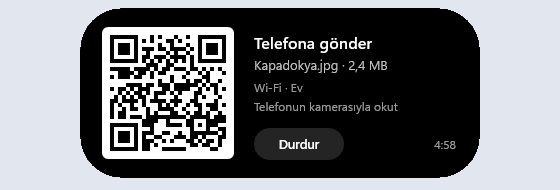
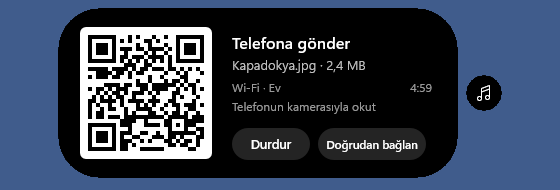
Release 0.4.0
Version numbers now follow 0.MINOR.PATCH. The README covers the layouts, the firewall check, the hotspot and starting with Windows, with new pictures of the send beside music and the Düzen page.

diff --git a/README.md b/README.md
@@ -13,11 +13,11 @@ A live island for Windows 11. Islora shows what your PC is doing in a small blac
   </tr>
   <tr>
     <td><img src="assets/screenshots/drop.png" alt="Files dragged to the island, over the three places they can go"></td>
-    <td><img src="assets/screenshots/phone.png" alt="A QR code for a phone to download a file over the local network"></td>
+    <td><img src="assets/screenshots/phone.png" alt="A QR code for a phone to download a file, with the music that plays meanwhile in a bubble beside it"></td>
   </tr>
   <tr>
     <td><img src="assets/screenshots/glass.png" alt="The glass material, showing the colours behind it"></td>
-    <td><img src="assets/screenshots/settings.png" alt="The settings window on its appearance page, with the progress style for sending"></td>
+    <td><img src="assets/screenshots/settings.png" alt="The settings window on its layout page, choosing how a send shares the island with music"></td>
   </tr>
 </table>
 
@@ -35,10 +35,10 @@ The file is not signed, so SmartScreen may warn you the first time. Choose **Mor
 - **Music and video:** cover, title, artist, progress and playback buttons for any player that reports to Windows, such as Spotify, or YouTube and YouTube Music in a browser. You can seek, shuffle and repeat when the player allows it. Where a player has no previous or next, as for a single video, the buttons beside play jump 10 seconds back and 30 forward. Songs are told from videos by what comes with them, such as an album, a square cover, the controls on offer and the title, not by which app or site plays them, so a new song is announced and the next video is not.
 - **Timers:** Islora's own countdown, Windows Focus sessions in both directions, and running timers from the Clock app. Clock timers are read-only, as Windows offers no public way to create them.
 - **Calendar:** events from a private iCal address, as a bubble 30 minutes before they start, in the pill 5 minutes before, and as an alert when they begin.
-- **Files:** drag files to the top of the screen and three places open. **Raf** keeps them at hand to drag somewhere else later. **Telefona gönder** shows a code that a phone camera scans to download them over your network, with no app or account on the phone. When the phone is on another network, **Doğrudan bağlan** has the computer open a small Wi-Fi network of its own: the phone joins it with one code and downloads with a second. **Dönüştür** saves pictures as JPG or PNG, or makes them smaller, next to the original.
+- **Files:** drag files to the top of the screen and three places open. **Raf** keeps them at hand to drag somewhere else later. **Telefona gönder** shows a code that a phone camera scans to download them over your network, with no app or account on the phone. When the phone is on another network, **Doğrudan bağlan** has the computer open a small Wi-Fi network of its own: the phone joins it with one code and downloads with a second, or, with Windows' Mobile Hotspot on, serves the files there. If no phone has opened the page after 45 seconds, the code suggests it, as some networks keep their devices apart. With Wi-Fi off and nothing else connected, the send waits and makes its code once Wi-Fi is back. **Dönüştür** saves pictures as JPG or PNG, or makes them smaller, next to the original.
 - **System changes:** volume, brightness, Caps Lock, Num Lock, charger, low battery, Energy Saver, Bluetooth, sound output, microphone, camera, internet, Wi-Fi, VPN, airplane mode, USB drives, displays, screenshots and screen clips, copied items, new songs and keyboard language.
 
-Two things can run at once: the main one sits in the pill and the second in a bubble beside it.
+Two things can run at once: the main one sits in the pill and the second in a bubble beside it. A short task such as a send keeps to the bubble by default while music plays, so the music stays where it was, and volume or brightness never covers an open code or panel.
 
 The island hides during fullscreen apps and leaves itself out of screenshots, screen recordings and screen sharing.
 
@@ -51,6 +51,7 @@ The island hides during fullscreen apps and leaves itself out of screenshots, sc
 | Switch to the second thing | Click the bubble. |
 | Keep, send or convert files | Drag them to the middle of the top screen edge, or onto the island, and drop them on one of the three places. Files on the shelf wait in a bubble beside the island: click it to drag them out again. |
 | Start a timer or see your next events | Open the home view with the timer icon or by pressing the shortcut twice. |
+| Choose how a send shares the island with music | On the settings window's Düzen page: **Baloncukta**, **Yan yana** or **Öne çıkar**. The picture there shows each choice as you make it. |
 | Change settings | Open Islora again from the Start menu or its exe, or use the gear in the home view or the tray menu. The window works with the keyboard too: Tab and the arrows move, Enter or Space press, Esc closes. |
 
 ## Settings
@@ -65,14 +66,18 @@ The settings window opens by itself on first run, and changes apply at once. Eve
 | `material` | `black`, or `glass` for a frosted view of what is behind the pill. Glass turns black in Energy Saver and with Windows transparency off. | `black` |
 | `island_style` | `island` floats below the top edge, `notch` is attached to it. | `island` |
 | `notices_off` | Notices to hide, separated by commas. The file lists the names. | empty |
+| `task_layout` | How a short task such as a send shares the island with music: `bubble` keeps the music in the pill and the task in the bubble beside it, `shared` shows both in one pill, `front` gives the pill to the task. | `bubble` |
 | `progress_style` | How the open view shows a send to a phone: `ring`, `edge` for light running along the island's edge, or `fill`. | `ring` |
 | `sound_wave` | `off` stills the wave in the small pill, which is lighter on the system. Energy Saver stills it too. | `on` |
+| `autostart` | `on` starts Islora with Windows. A new copy turns it on by itself until you turn it off on the Genel page. | `on` |
 
 ## Privacy
 
 Islora has no account and no telemetry. On its own it makes one kind of network request: it downloads the calendar address you set, every 15 minutes.
 
-While you send files to a phone, and only then, Islora runs a small web server on your computer that only devices on the same network can reach. It answers only at an address with a one-time code in it, which the QR code carries, offers only the files you dropped, and stops once they are downloaded or after 5 minutes without a download. The files go straight from your computer to the phone and never through the internet. With **Doğrudan bağlan**, Islora also opens a Wi-Fi network of its own for the same time, with a new random password each time that only the code carries. The computer's internet is not shared over it, and the computer stays on its own network meanwhile.
+While you send files to a phone, and only then, Islora runs a small web server on your computer that only devices on the same network can reach. It answers only at an address with a one-time code in it, which the QR code carries, offers only the files you dropped, and stops once they are downloaded or after 5 minutes without a download. The files go straight from your computer to the phone and never through the internet. With **Doğrudan bağlan**, Islora also opens a Wi-Fi network of its own for the same time, with a new random password each time that only the code carries. The computer's internet is not shared over it, and the computer stays on its own network meanwhile. To tell whether a phone can get through, Islora reads Windows' firewall settings and the rules that name it. It never changes the firewall.
+
+To start with Windows, Islora adds itself to your account's startup list, the one Task Manager shows, and nothing else.
 
 The shelf keeps where your files are, never copies, and forgets them when Islora quits. Converted pictures are saved next to the original, which is left as it was.
 
@@ -80,7 +85,7 @@ Islora never reads what you copy, only whether it was text, an image or a file, 
 
 ## System load
 
-Islora is written in Rust with no runtime or web view. Nothing polls: every source waits for a Windows event, and shape animations run in the Windows compositor, so the app itself does no work per frame. With nothing to show, v0.0.3 used 0 ms of CPU over 15 seconds and about 8 MB of private memory, the same as before files could be dropped on it. The web server for a phone and the picture work run only while they are needed.
+Islora is written in Rust with no runtime or web view. Nothing polls: every source waits for a Windows event, and shape animations run in the Windows compositor, so the app itself does no work per frame. With nothing to show, 0.4.0 used 0 ms of CPU over 15 seconds and about 8 MB of private memory, as 0.0.3 did. The web server for a phone and the picture work run only while they are needed.
 
 The exception is the sound wave in the small pill while music plays. It loops, so the compositor (`dwm.exe`) redraws it on every frame, which costs about half a CPU core at 144 Hz. Turn off **Ses dalgası** in the settings to stop it. It also stops by itself while Windows Energy Saver is on.
 
@@ -89,8 +94,8 @@ The exception is the sound wave in the small pill while music plays. It loops, s
 - App notifications are not shown yet.
 - Only the primary display is used.
 - The Windows volume flyout and notification banners still appear beside the island.
-- The first time you send to a phone, Windows asks whether Islora may use the network. Allow it on private networks, or the phone cannot connect. On a network Windows treats as public, phones usually cannot connect at all.
-- **Doğrudan bağlan** needs a Wi-Fi card that supports Wi-Fi Direct, as most laptops have, and does not work while Windows' Mobile Hotspot is on. The phone shows that its network has no internet while it is joined, which is expected.
+- The first time you send to a phone, Windows asks whether Islora may use the network. Allow it, or the phone cannot connect. The open code says so when the firewall turns phones away on the network you are on.
+- **Doğrudan bağlan** needs a Wi-Fi card that supports Wi-Fi Direct, as most laptops have. The phone shows that its network has no internet while it is joined, which is expected. With Windows' Mobile Hotspot on, the phone has to be on the hotspot already, as Islora cannot read its password to offer a code for joining it.
 - Telling songs from videos rests on what each site sends. A page that sends nothing counts as a video, and an odd title can be misread.
 - A screen clip shows a preview only when the Snipping Tool saves it as a file. Otherwise the island says it was copied.
 - Converting HEIC pictures needs Microsoft's HEIF Image Extensions, and AVIF the AV1 Video Extension, both free in the Microsoft Store.
